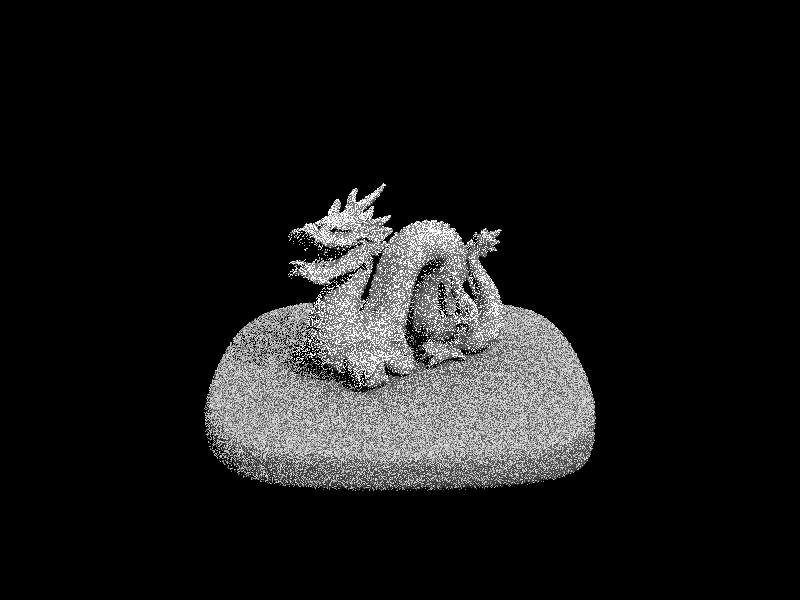
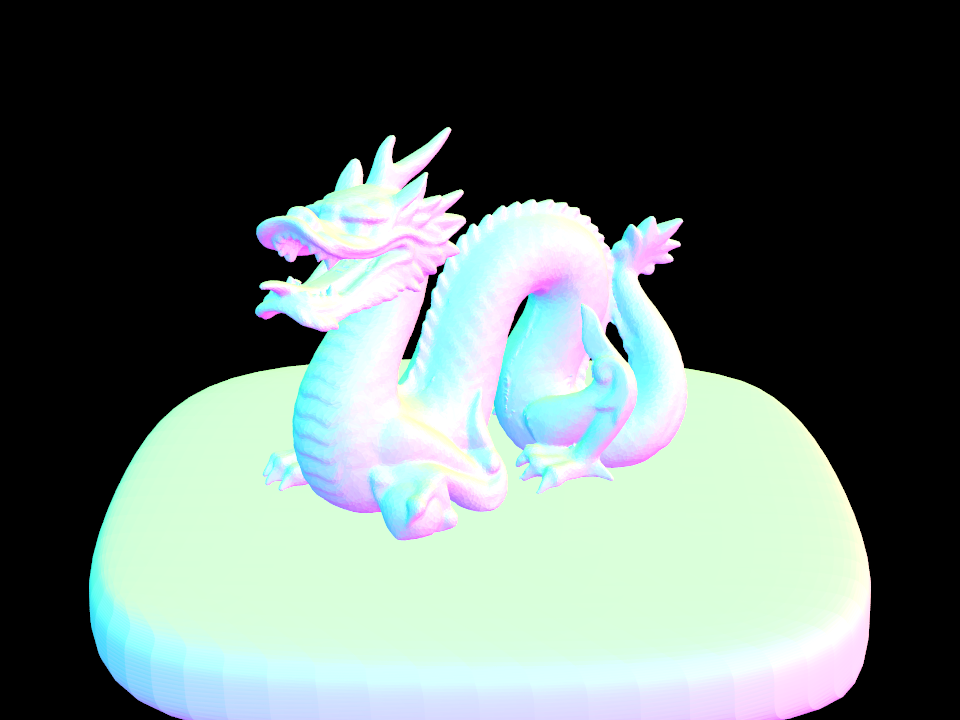
Complete p1

diff --git a/project3/project3.md b/project3/project3.md
@@ -14,17 +14,41 @@ All tests are performed on a 2021 MacBook Pro with Apple M1 Pro CPU (ARM).
 
 ## Part 1: Ray Generation and Scene Intersection
 
-Our code in this part implements the ray-triangle intersection test for a given input `Ray r` and a `Triangle` primitive.
+In this part, we implemeted ray-surface intersection for a given input `Ray` and a `Triangle` or `Sphere` primitive.
 
-1. First, we use the Moller-Trumbore algorithm is used to compute the intersection point of the ray with the triangle.
-2. After the Moller-Trumbore algorithm, we get `[t, b_1, b_2]`. Then we use the variables to test if the intersection point is inside the triangle and within the line segment of the ray.
+Our overall flow looks like following:
+1. For each pixel `(x, y)` on screen, `ns_aa` amount of rays are generated and sampled by calling `camera->generate_ray(x_sample / width, y_sample / height)`. Here, `x_sample` and `y_sample` are sampled position within the pixel (i.e., `x <= x_sample <= x + 1` and `y <= y_sample <= y + 1`). Note we also normalize the position against `width` and `height` for easier change of coordinate system. The `x_sample` and `y_sample` becomes the direction of the ray.
+2. We notice that to change the coordinate system from the normalized screen space to camera space, we can perform an affine transformation on the screen space pixel. We first need to  scale the screen space position by $$2\tan(\frac{hFov}{2})$$ on the $$x$$-axis and $$2\tan(\frac{vFov}{2})$$ on the $$y$$-axis. That is, the transform matrix is  
+$$
+\begin{pmatrix}
+    2\tan(\frac{hFov}{2}) & 0 & -\tan(\frac{hFov}{2}) \\
+    0 & 2\tan(\frac{vFov}{2}) & -\tan(\frac{vFov}{2}) \\
+    0 & 0 & 1
+\end{pmatrix}
+$$
+3. Lastly, to change this position to a direction, we change the `.z` component of the vector to -1 and normalize. Now we obtained the direction of the ray in camera space. To convert this back to world space coordinate direction we multiple the given `c2w` matrix with this vector.
+4. A new `ray` is created with origin `pos` (given) and direction obtained with above steps.
+5. After obtaining the new `Ray r` we then loop over each primitive `p` and call `p->intersect(r)` to check if `r` hits any primitive, and update the `max_t` if it does hit. (Note: this step is further optimized in Task 2).
+6. We then assign color value based on the normal of the nearest intersected object (Note: this step is changed in Task 3)
+
+For our triangle intersection algorithm, we used Moller-Trumbore:
+1. We compute `E1`, `E2`, `S`, `S1` and `S2` using method described on [this slide](https://cs184.eecs.berkeley.edu/sp23/lecture/9-22/intro-to-ray-tracing-and-acceler)
+2. We then compute `t`, `b_1` and `b_2` from  `E1`, `E2`, `S`, `S1` and `S2` computed above as well as `D` (direction of the ray)  
+   Essentially, we are computing the Barycentric coordinate of the point where the ray hits the plane the triangle is on.
+3. After the Moller-Trumbore algorithm, we get `[t, b_1, b_2]`. Then we use the variables to test if the intersection point is inside the triangle and within the line segment of the ray.
     - It is inside the line segment of the ray if `t <= t_max` and `t >= t_min`.
-    - It is inside the triangle if satisfies the barycentric constraint `b1 >= 0 && b1 <= 1 && b2 >= 0 && b2 <= 1 && 1 - b1 - b2 >= 0 && 1 - b1 - b2 <= 1`
-3. If the above conditions are met, then the intersection data `isect` is updated accordingly. The method returns true if an intersection occurs and false otherwise.
+    - It is inside the triangle if satisfies the Barycentric constraint `b1 >= 0 && b1 <= 1 && b2 >= 0 && b2 <= 1 && 1 - b1 - b2 >= 0 && 1 - b1 - b2 <= 1`
+4. If the above conditions are met, then the intersection data `isect` is updated accordingly. The method returns true if an intersection occurs and false otherwise.
+
+Here are some images we rendered after completing these tasks
 
 | CBempty                                                | dragon                                                |
 | ------------------------------------------------------ | ----------------------------------------------------- |
 | <img src="./images/p1_CBempty.png" style="width:100%"> | <img src="./images/p1_dragon.png" style="width:100%"> |
+
+| CBshphere                                              | CBlucy |
+| ------------------------------------------------------ |-----------------|
+| <img src="./images/p1_CBsphere.png" style="width:100%"> | <img src="./images/p1_CBlucy.png" style="width:100%"> |
 
 ## Part 2: Bounding Volume Hierarchy
 
